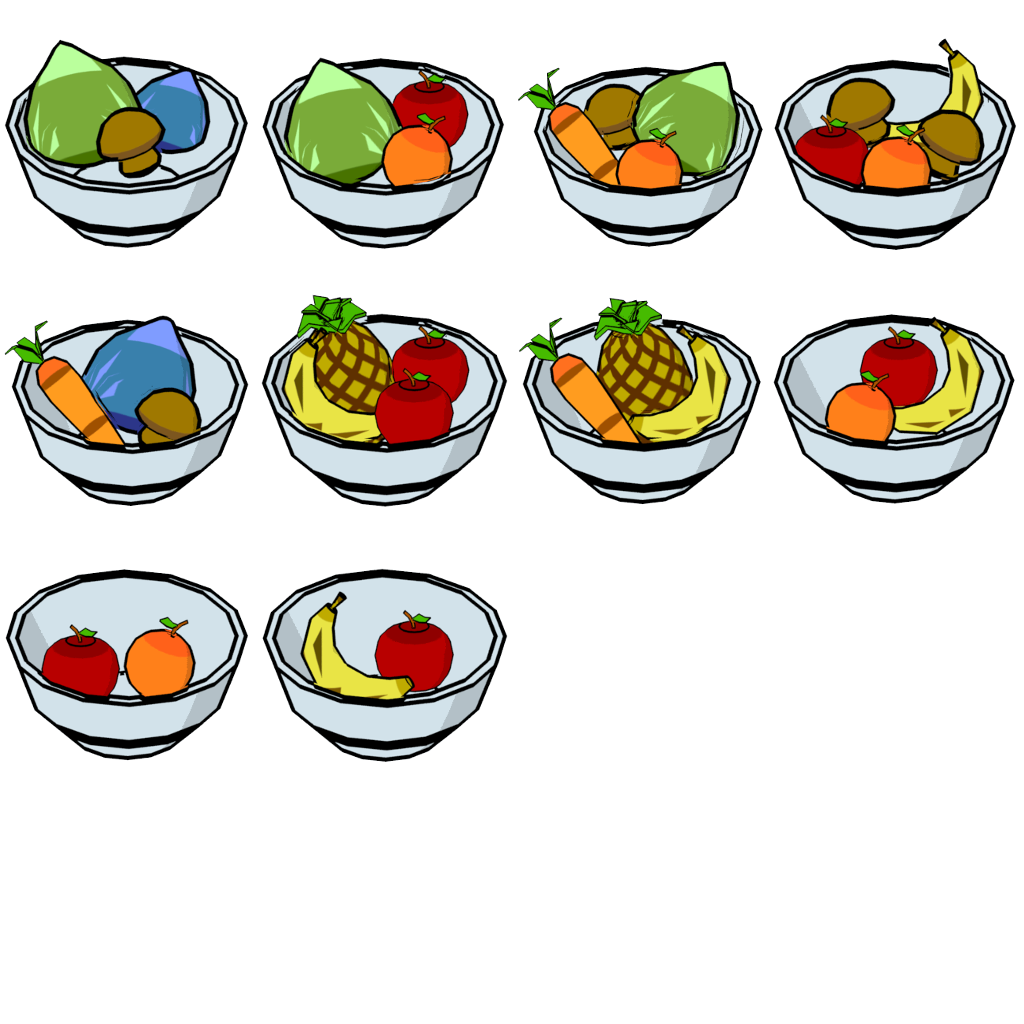
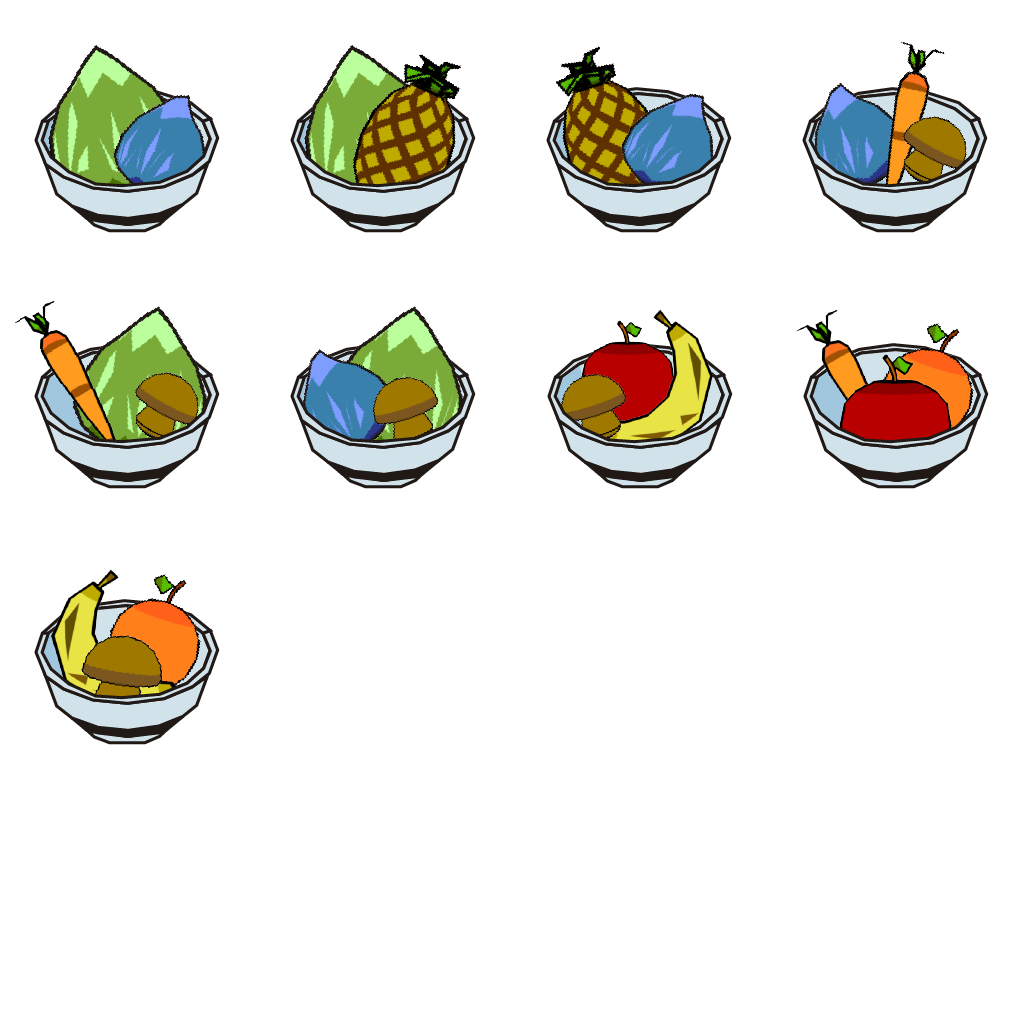
ingredients
new dishes selection and ingredients

Changed region(s): [[0.0, 0.2812, 1.0, 0.5], [0.0, 0.0312, 1.0, 0.25], [0.0, 0.5312, 0.5, 0.75]]

diff --git a/Assets/Scripts/Quest/DishList.cs b/Assets/Scripts/Quest/DishList.cs
@@ -47,15 +47,14 @@ public class DishList : MonoBehaviour {
 	public static FoodMenu[] menu = new FoodMenu[10];
 
 	void Awake() {
-		menu[0] = new FoodMenu(itemsListMC.ITEM_MUSHROOM, itemsListMC.ITEM_LETTUCE, itemsListMC.ITEM_CABBAGE);
-		menu[1] = new FoodMenu(itemsListMC.ITEM_LETTUCE, itemsListMC.ITEM_APPLE, itemsListMC.ITEM_ORANGE);
-		menu[2] = new FoodMenu(itemsListMC.ITEM_LETTUCE, itemsListMC.ITEM_CARROT, itemsListMC.ITEM_MUSHROOM, itemsListMC.ITEM_ORANGE);
-		menu[3] = new FoodMenu(itemsListMC.ITEM_ORANGE, itemsListMC.ITEM_APPLE, itemsListMC.ITEM_BANANA, itemsListMC.ITEM_MUSHROOM);
-		menu[4] = new FoodMenu(itemsListMC.ITEM_CABBAGE, itemsListMC.ITEM_MUSHROOM, itemsListMC.ITEM_CARROT);
-		menu[5] = new FoodMenu(itemsListMC.ITEM_PINEAPPLE, itemsListMC.ITEM_BANANA, itemsListMC.ITEM_APPLE, itemsListMC.ITEM_APPLE);
-		menu[6] = new FoodMenu(itemsListMC.ITEM_CARROT, itemsListMC.ITEM_PINEAPPLE, itemsListMC.ITEM_BANANA);
-		menu[7] = new FoodMenu(itemsListMC.ITEM_ORANGE, itemsListMC.ITEM_APPLE, itemsListMC.ITEM_BANANA);
-		menu[8] = new FoodMenu(itemsListMC.ITEM_ORANGE, itemsListMC.ITEM_APPLE);
-		menu[9] = new FoodMenu(itemsListMC.ITEM_BANANA, itemsListMC.ITEM_APPLE);
+		menu[0] = new FoodMenu(itemsListMC.ITEM_LETTUCE, 	itemsListMC.ITEM_CABBAGE);
+		menu[1] = new FoodMenu(itemsListMC.ITEM_LETTUCE, 	itemsListMC.ITEM_PINEAPPLE);
+		menu[2] = new FoodMenu(itemsListMC.ITEM_PINEAPPLE, 	itemsListMC.ITEM_CABBAGE);
+		menu[3] = new FoodMenu(itemsListMC.ITEM_CABBAGE,	itemsListMC.ITEM_CARROT,	itemsListMC.ITEM_MUSHROOM);
+		menu[4] = new FoodMenu(itemsListMC.ITEM_CARROT,		itemsListMC.ITEM_LETTUCE,	itemsListMC.ITEM_MUSHROOM);
+		menu[5] = new FoodMenu(itemsListMC.ITEM_CABBAGE,	itemsListMC.ITEM_LETTUCE,	itemsListMC.ITEM_MUSHROOM);
+		menu[6] = new FoodMenu(itemsListMC.ITEM_MUSHROOM,	itemsListMC.ITEM_APPLE,		itemsListMC.ITEM_BANANA);
+		menu[7] = new FoodMenu(itemsListMC.ITEM_CARROT,		itemsListMC.ITEM_APPLE,		itemsListMC.ITEM_ORANGE);
+		menu[8] = new FoodMenu(itemsListMC.ITEM_MUSHROOM,	itemsListMC.ITEM_BANANA,	itemsListMC.ITEM_ORANGE);
 	}
 }
